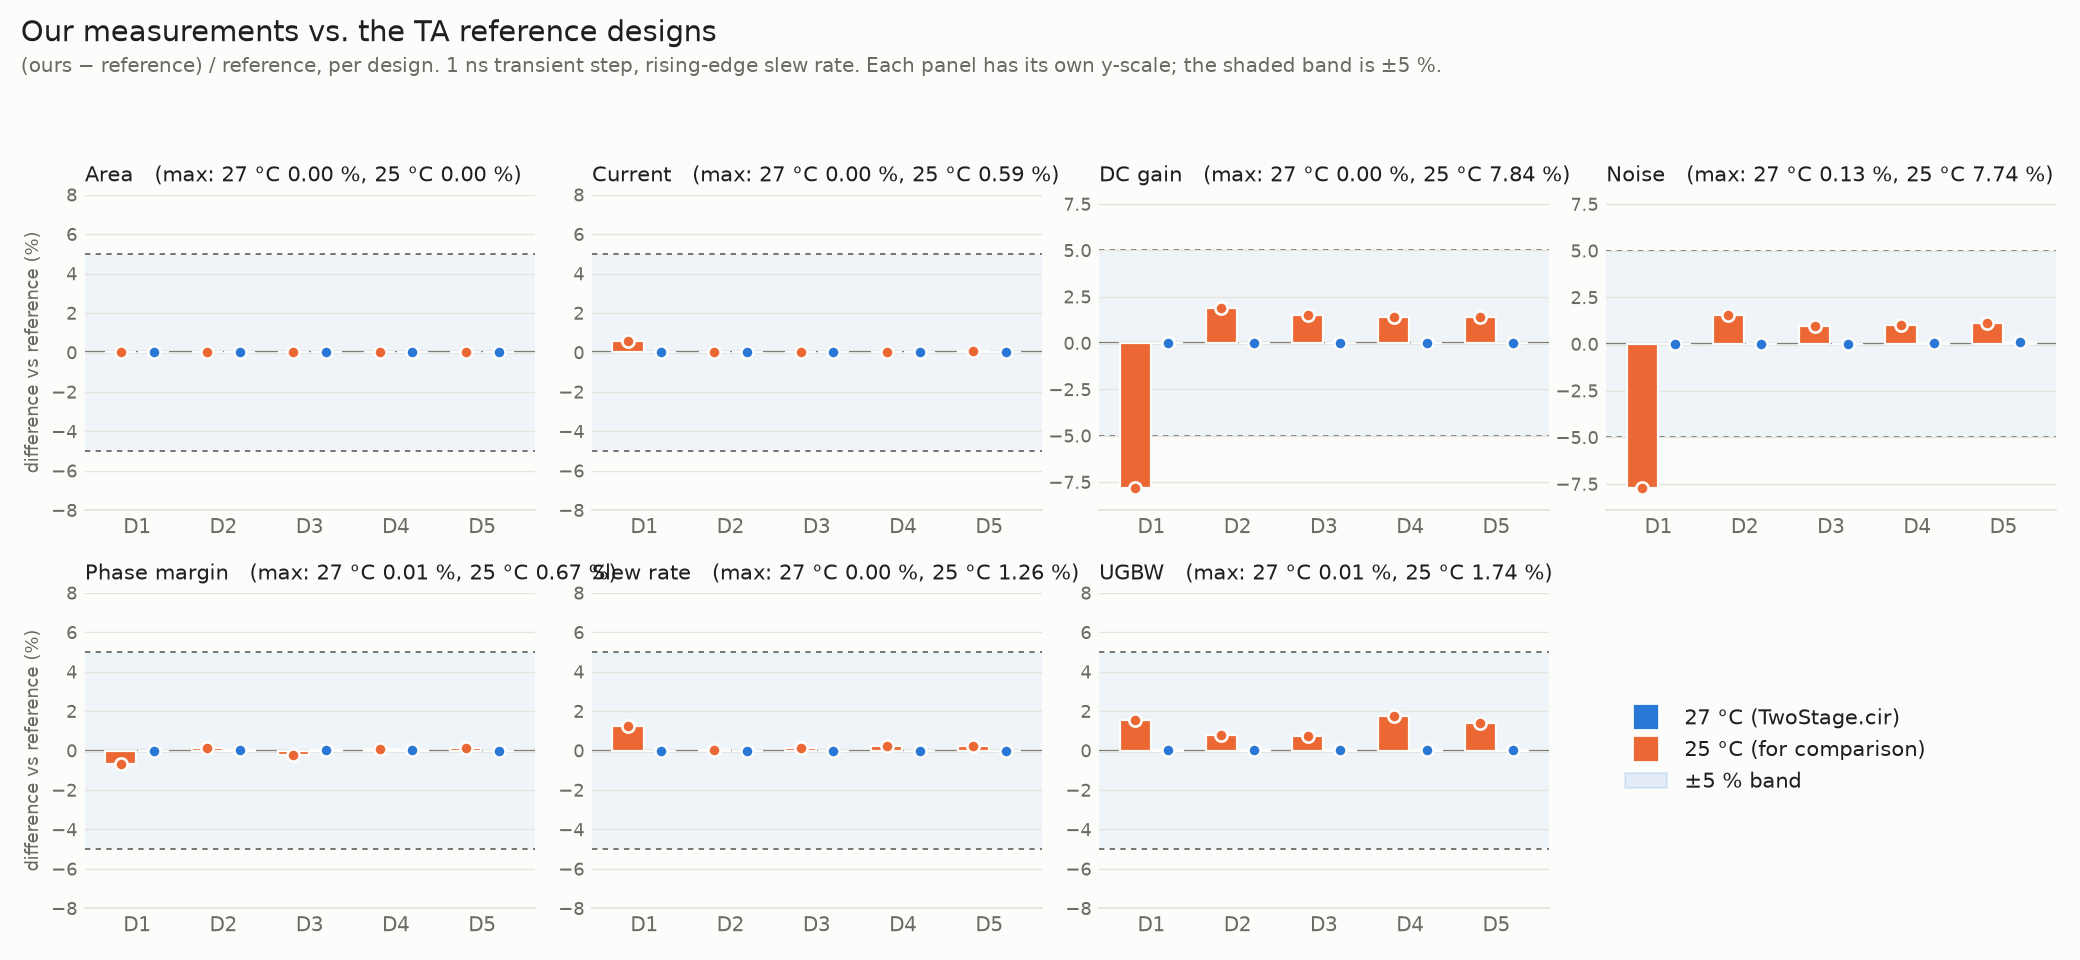
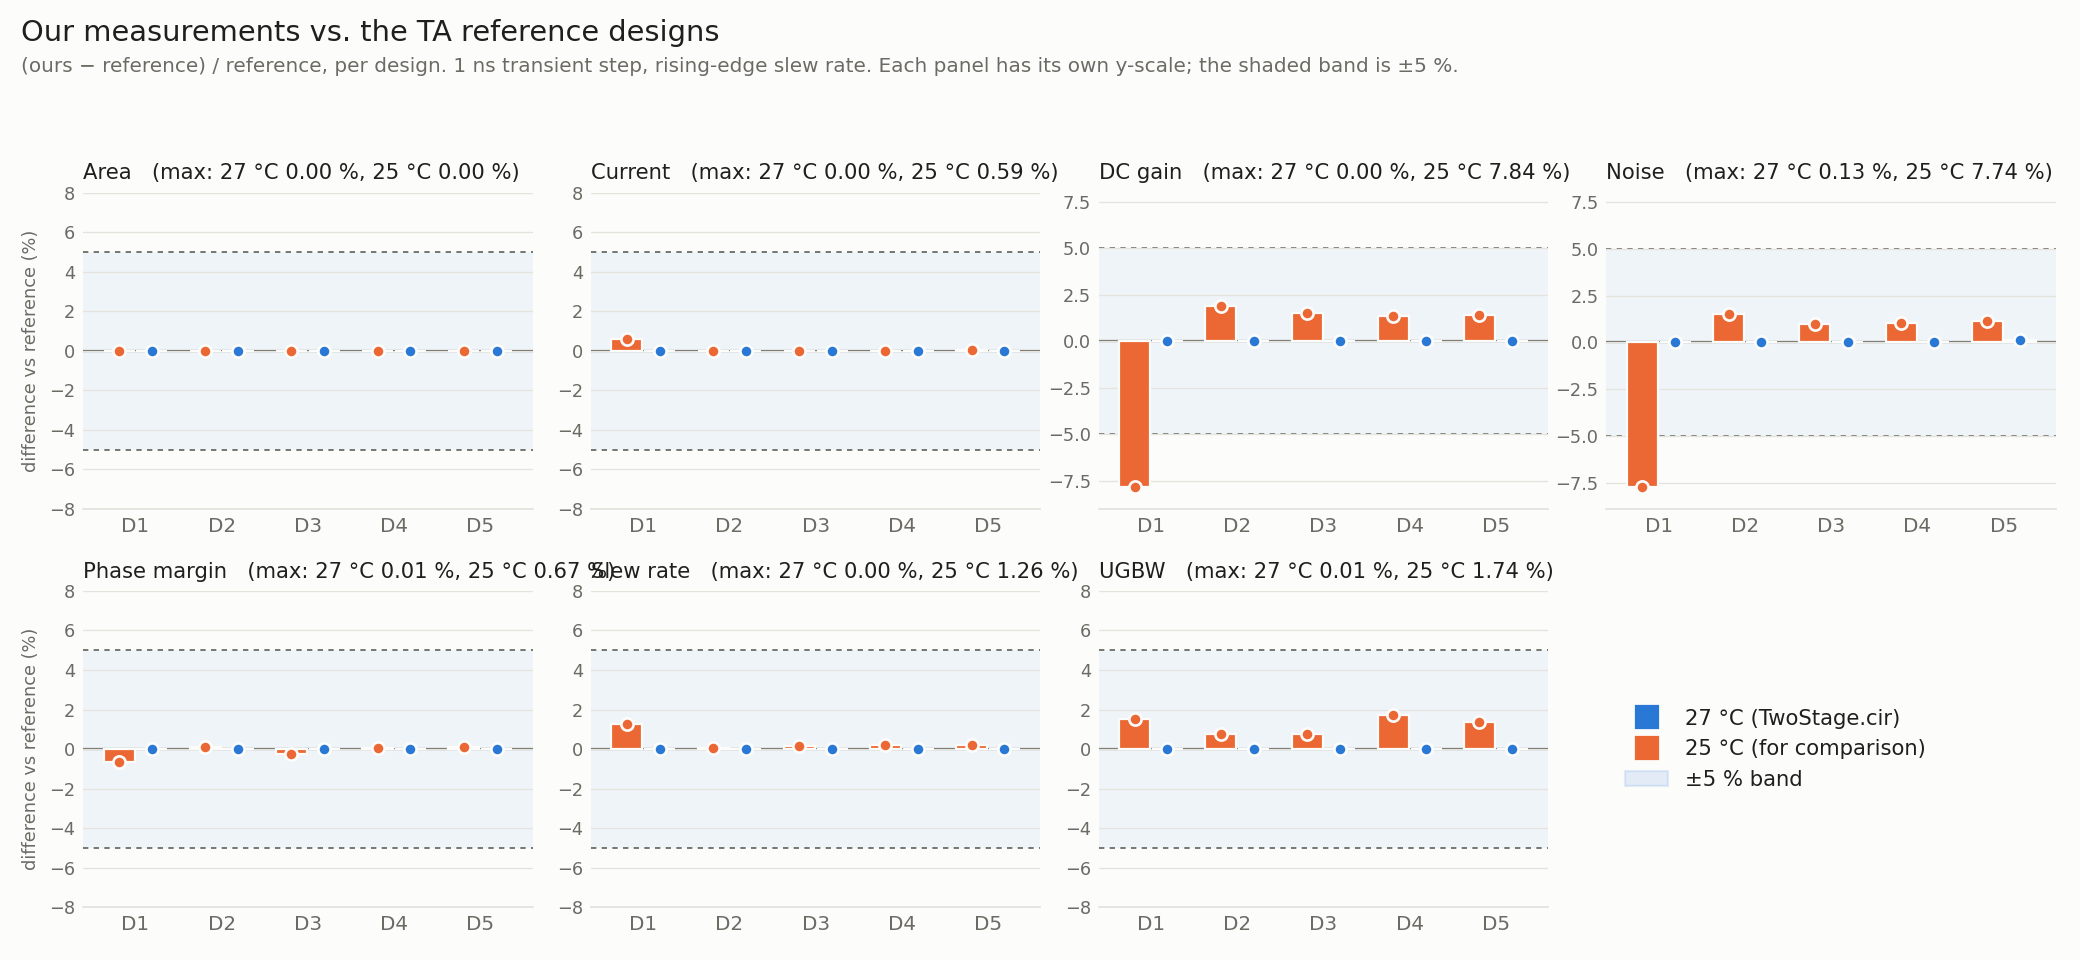
add mkdir to ngspice_wrapper.py

diff --git a/ngspice_interface/ngspice_wrapper.py b/ngspice_interface/ngspice_wrapper.py
@@ -22,6 +22,8 @@ class NgspiceWrapper(object):
         self.solutions_folder = os.path.join(project_path, 'no_backup', 'solutions')
         self.output_netlists_folder = os.path.join(project_path, 'no_backup', 'output_netlists')
         self.output_files_folder = os.path.join(project_path, 'no_backup', 'output_files')
+        os.makedirs(self.output_files_folder, exist_ok=True)
+        os.makedirs(self.output_netlists_folder, exist_ok=True)
         self.param_names = yaml_data['params'].keys()
         self.parameters = {}
         self.read_netlist()
